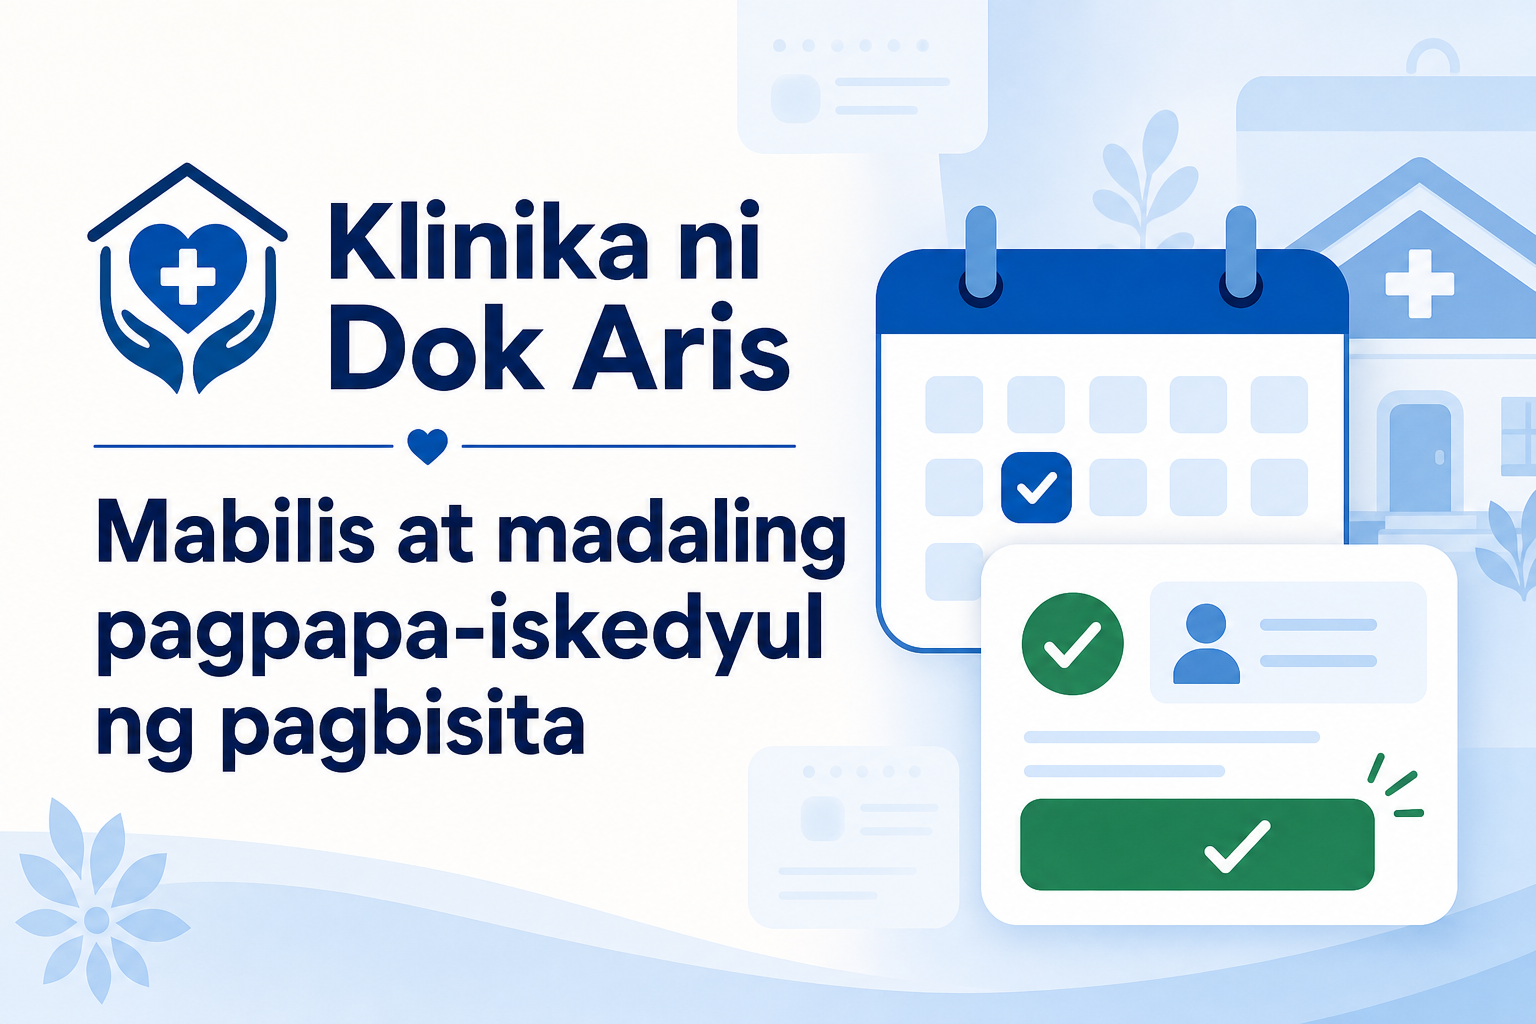
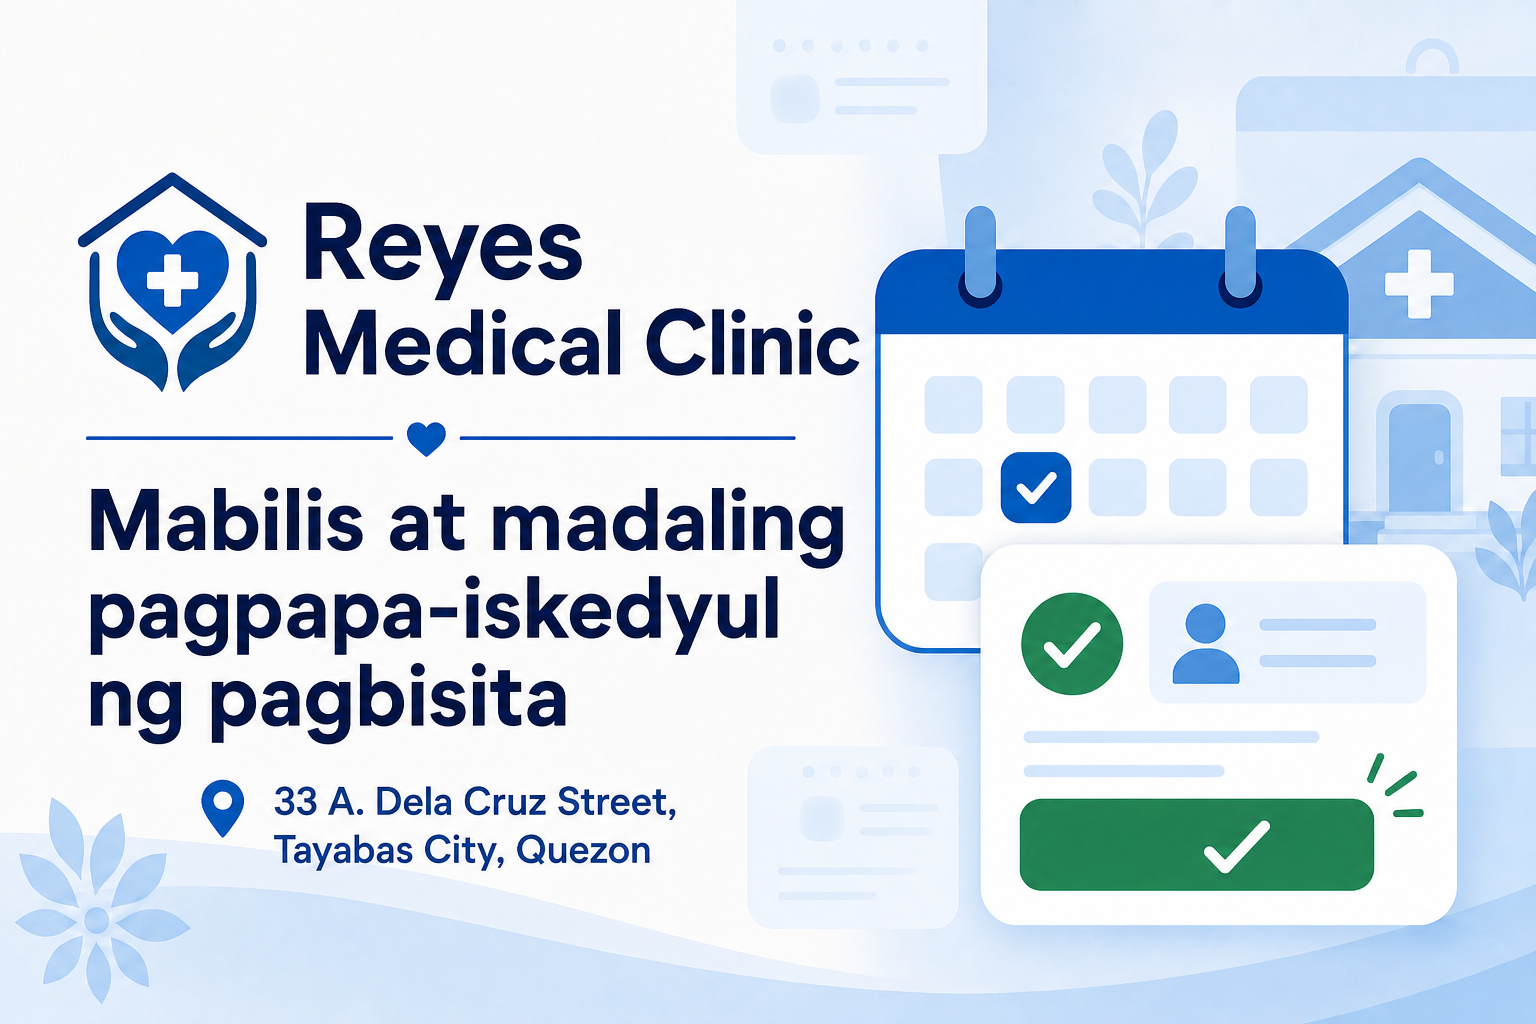
Rename clinic and add map shortcut

Changed region(s): [[0.0312, 0.1562, 0.5938, 0.8438], [0.875, 0.4375, 0.9062, 0.5], [0.5625, 0.4375, 0.5938, 0.4688]]

diff --git a/components/booking/BookingPage.tsx b/components/booking/BookingPage.tsx
@@ -24,7 +24,7 @@ function displayTime(time: string): string {
 }
 
 export function BookingPage() {
-  const [data, setData] = useState<ClinicData>({ version: 1, appointments: [], settings: DEFAULT_CLINIC_SETTINGS });
+  const [data, setData] = useState<ClinicData>({ version: 3, appointments: [], settings: DEFAULT_CLINIC_SETTINGS });
   const [month, setMonth] = useState(() => { const now = new Date(); return new Date(now.getFullYear(), now.getMonth(), 1); });
   const [selectedDate, setSelectedDate] = useState("");
   const [selectedTime, setSelectedTime] = useState("");
@@ -82,8 +82,8 @@ export function BookingPage() {
     <main>
       <a className="skip-link" href="#main-content">Lumaktaw sa pagpapa-iskedyul</a>
       <header className="clinic-header">
-        <div className="brand-mark" aria-hidden="true">A</div>
-        <div><p className="clinic-label">Klinika para sa buong pamilya</p><h1>{data.settings.clinicName}</h1></div>
+        <div className="brand-mark" aria-hidden="true">R</div>
+        <div><p className="clinic-label">Klinika para sa buong pamilya</p><h1>{data.settings.clinicName}</h1><p className="clinic-address">{data.settings.clinicAddress} <a href="https://www.google.com/maps/search/?api=1&query=33%20A.%20Dela%20Cruz%20Street%2C%20Tayabas%20City%2C%20Quezon" target="_blank" rel="noreferrer" aria-label="Buksan ang address ng Reyes Medical Clinic sa Google Maps">Buksan sa Google Maps</a></p></div>
       </header>
 
       <div className="page-shell" id="main-content">
@@ -126,7 +126,7 @@ export function BookingPage() {
           </div>
         )}
       </div>
-      <footer><p>© 2026 Klinika ni Dok Aris</p><p>Para sa agarang tulong, tumawag sa pinakamalapit na serbisyong pang-emerhensiya.</p><Link href="/admin">Para sa kawani</Link></footer>
+      <footer><p>© 2026 {data.settings.clinicName}</p><p>{data.settings.clinicAddress}</p><p>Para sa agarang tulong, tumawag sa pinakamalapit na serbisyong pang-emerhensiya.</p><Link href="/admin">Para sa kawani</Link></footer>
     </main>
   );
 }

diff --git a/app/globals.css b/app/globals.css
@@ -15,6 +15,8 @@ button:focus-visible, input:focus-visible, textarea:focus-visible, a:focus-visib
 .clinic-header { min-height: 110px; display: flex; align-items: center; gap: 18px; padding: 22px max(24px, calc((100vw - 1180px) / 2)); color: white; background: linear-gradient(120deg, #063b70, #0875c9); }
 .brand-mark { width: 64px; height: 64px; flex: 0 0 64px; display: grid; place-items: center; border: 3px solid white; border-radius: 50%; font-size: 32px; font-weight: 800; }
 .clinic-header h1 { margin: 1px 0 0; font-size: clamp(28px, 4vw, 40px); line-height: 1.1; }
+.clinic-address { margin: 7px 0 0; font-size: 15px; line-height: 1.45; }
+.clinic-address a { display: inline-block; margin-left: 8px; color: white; font-weight: 800; text-underline-offset: 3px; }
 .clinic-label { margin: 0; font-size: 16px; font-weight: 700; opacity: .88; }
 .page-shell { width: min(1180px, calc(100% - 32px)); margin: 30px auto 60px; }
 .announcement { display: flex; gap: 16px; align-items: center; padding: 18px 22px; margin-bottom: 24px; border: 2px solid #e1b84d; border-radius: 14px; color: #5b4100; background: #fff8df; }
@@ -216,7 +218,7 @@ td small { display: block; color: var(--muted); }
   .clinic-header, .announcement, footer, .no-print { display: none !important; }
   .page-shell { width: 100%; margin: 0; }
   .print-card { max-width: none; margin: 0; padding: 0; border: 0; box-shadow: none; }
-  .print-card::before { content: "Klinika ni Dok Aris"; display: block; margin-bottom: 6px; color: #063b70; font-size: 24pt; font-weight: 800; }
+  .print-card::before { content: "Reyes Medical Clinic"; display: block; margin-bottom: 6px; color: #063b70; font-size: 24pt; font-weight: 800; }
   .confirmation-layout { grid-template-columns: 1fr 260px; }
   .qr-panel { break-inside: avoid; }
   .print-only { display: block; }

diff --git a/components/admin/AdminDashboard.tsx b/components/admin/AdminDashboard.tsx
@@ -28,7 +28,7 @@ function countAvailableSlots(data: ClinicData, days = 30): number {
 }
 
 export function AdminDashboard({ staffName, signOutPath }: Props) {
-  const [data, setData] = useState<ClinicData>({ version: 1, appointments: [], settings: DEFAULT_CLINIC_SETTINGS });
+  const [data, setData] = useState<ClinicData>({ version: 3, appointments: [], settings: DEFAULT_CLINIC_SETTINGS });
   const [tab, setTab] = useState<AdminTab>("dashboard");
   useEffect(() => {
     const frame = window.requestAnimationFrame(() => setData(loadClinicData()));
@@ -69,7 +69,7 @@ export function AdminDashboard({ staffName, signOutPath }: Props) {
   return (
     <main className="admin-page">
       <a className="skip-link" href="#admin-content">Lumaktaw sa pangunahing nilalaman</a>
-      <header className="admin-header"><div><p className="clinic-label">Klinika ni Dok Aris</p><h1>Talaan ng Kawani</h1></div><div className="staff-account"><span>Nakapasok bilang<br /><strong>{staffName}</strong></span><a href={signOutPath}>Lumabas</a></div></header>
+      <header className="admin-header"><div><p className="clinic-label">{data.settings.clinicName}</p><h1>Talaan ng Kawani</h1></div><div className="staff-account"><span>Nakapasok bilang<br /><strong>{staffName}</strong></span><a href={signOutPath}>Lumabas</a></div></header>
       <div className="admin-shell">
         <nav className="admin-nav" aria-label="Pangunahing navigation">
           {navItems.map((item) => <button type="button" key={item.id} className={tab === item.id ? "active" : ""} aria-current={tab === item.id ? "page" : undefined} onClick={() => setTab(item.id)}>{item.label}</button>)}

diff --git a/lib/storage/repository.ts b/lib/storage/repository.ts
@@ -1,9 +1,9 @@
 import type { Appointment } from "@/types/appointment";
 import type { ClinicSettings } from "@/types/schedule";
-import { DEFAULT_CLINIC_SETTINGS, REGULAR_WEEKLY_HOURS } from "./seed";
+import { CLINIC_ADDRESS, CLINIC_NAME, DEFAULT_CLINIC_SETTINGS, REGULAR_WEEKLY_HOURS } from "./seed";
 
 const STORAGE_KEY = "clinic-appointment-booking";
-const STORAGE_VERSION = 2;
+const STORAGE_VERSION = 3;
 
 export interface ClinicData {
   version: number;
@@ -28,16 +28,18 @@ function isClinicData(value: unknown): value is ClinicData {
 function migrateClinicData(value: unknown): ClinicData | null {
   if (!value || typeof value !== "object") return null;
   const data = value as Partial<ClinicData>;
-  if (data.version !== 1 || !Array.isArray(data.appointments) || !data.settings?.schedule) return null;
+  if (![1, 2].includes(data.version ?? 0) || !Array.isArray(data.appointments) || !data.settings?.schedule) return null;
 
   return {
     version: STORAGE_VERSION,
     appointments: data.appointments,
     settings: {
       ...data.settings,
+      clinicName: CLINIC_NAME,
+      clinicAddress: CLINIC_ADDRESS,
       schedule: {
         ...data.settings.schedule,
-        weeklyHours: structuredClone(REGULAR_WEEKLY_HOURS),
+        weeklyHours: data.version === 1 ? structuredClone(REGULAR_WEEKLY_HOURS) : data.settings.schedule.weeklyHours,
       },
     },
   };

diff --git a/app/layout.tsx b/app/layout.tsx
@@ -18,12 +18,12 @@ export async function generateMetadata(): Promise<Metadata> {
   const host = requestHeaders.get("x-forwarded-host") ?? requestHeaders.get("host") ?? "localhost";
   const protocol = requestHeaders.get("x-forwarded-proto") ?? (host.startsWith("localhost") ? "http" : "https");
   const origin = `${protocol}://${host}`;
-  const title = "Klinika ni Dok Aris | Magpa-iskedyul ng Pagbisita";
-  const description = "Mabilis at madaling pagpapa-iskedyul ng pagbisita sa Klinika ni Dok Aris.";
+  const title = "Reyes Medical Clinic | Magpa-iskedyul ng Pagbisita";
+  const description = "Mabilis at madaling pagpapa-iskedyul ng pagbisita sa Reyes Medical Clinic sa Tayabas City, Quezon.";
   return {
     title,
     description,
-    openGraph: { title, description, type: "website", images: [{ url: new URL("/og.png", origin).toString(), width: 1536, height: 1024, alt: "Klinika ni Dok Aris" }] },
+    openGraph: { title, description, type: "website", images: [{ url: new URL("/og.png", origin).toString(), width: 1536, height: 1024, alt: "Reyes Medical Clinic" }] },
     twitter: { card: "summary_large_image", title, description, images: [new URL("/og.png", origin).toString()] },
   };
 }

diff --git a/components/booking/BookingConfirmation.tsx b/components/booking/BookingConfirmation.tsx
@@ -4,6 +4,7 @@ import { useEffect, useState } from "react";
 import Image from "next/image";
 import { createQrImage } from "@/lib/appointments/qr";
 import type { Appointment } from "@/types/appointment";
+import { CLINIC_ADDRESS, CLINIC_NAME } from "@/lib/storage/seed";
 
 interface Props {
   appointment: Appointment;
@@ -51,7 +52,7 @@ export function BookingConfirmation({ appointment, onStartAgain, displayDate, di
         <button type="button" className="secondary-button" onClick={() => window.print()}>I-print ang tala ng pagbisita</button>
       </div>
       <button type="button" className="text-button no-print" onClick={onStartAgain}>Magpa-iskedyul ng panibagong pagbisita</button>
-      <p className="print-only print-footer">Klinika ni Dok Aris • Dalhin ang kopyang ito sa inyong appointment.</p>
+      <p className="print-only print-footer">{CLINIC_NAME} • {CLINIC_ADDRESS} • Dalhin ang kopyang ito sa inyong appointment.</p>
     </section>
   );
 }

diff --git a/lib/storage/seed.ts b/lib/storage/seed.ts
@@ -14,8 +14,12 @@ export const REGULAR_WEEKLY_HOURS = {
   6: REGULAR_CLINIC_TIMES,
 } as const;
 
+export const CLINIC_NAME = "Reyes Medical Clinic";
+export const CLINIC_ADDRESS = "33 A. Dela Cruz Street, Tayabas City, Quezon";
+
 export const DEFAULT_CLINIC_SETTINGS: ClinicSettings = {
-  clinicName: "Klinika ni Dok Aris",
+  clinicName: CLINIC_NAME,
+  clinicAddress: CLINIC_ADDRESS,
   announcement: "Paalala: Walang klinika tuwing Linggo.",
   schedule: {
     weeklyHours: REGULAR_WEEKLY_HOURS,

diff --git a/app/admin/page.tsx b/app/admin/page.tsx
@@ -5,8 +5,8 @@ import { chatGPTSignOutPath, requireChatGPTUser } from "@/app/chatgpt-auth";
 export const dynamic = "force-dynamic";
 
 export const metadata: Metadata = {
-  title: "Talaan ng Kawani | Klinika ni Dok Aris",
-  description: "Pribadong talaan para sa mga kawani ng Klinika ni Dok Aris.",
+  title: "Talaan ng Kawani | Reyes Medical Clinic",
+  description: "Pribadong talaan para sa mga kawani ng Reyes Medical Clinic.",
 };
 
 async function ProtectedDashboard() {

diff --git a/types/schedule.ts b/types/schedule.ts
@@ -8,6 +8,7 @@ export interface ClinicSchedule {
 
 export interface ClinicSettings {
   clinicName: string;
+  clinicAddress: string;
   announcement: string;
   schedule: ClinicSchedule;
 }

diff --git a/IMPLEMENTATION_STATUS.md b/IMPLEMENTATION_STATUS.md
@@ -22,3 +22,5 @@
   - ESLint and production build pass; patient booking, QR display, download/print controls, and browser console verified
   - Schedule revision
   - Monday through Saturday, 8:00 AM to 5:00 PM, with 30-minute appointment starts and a 12:00 PM to 2:00 PM break
+  - Clinic branding and location
+  - Reyes Medical Clinic, 33 A. Dela Cruz Street, Tayabas City, Quezon, with a direct Google Maps shortcut
